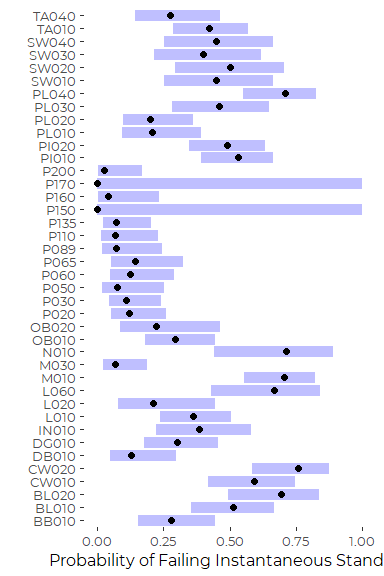
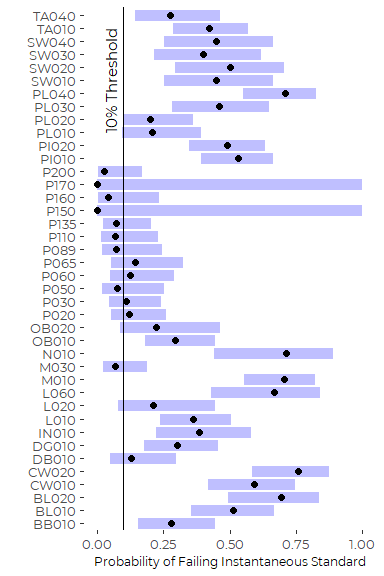
Minor revision to graphic

diff --git a/Analysis/E.coli_Analysis.md b/Analysis/E.coli_Analysis.md
@@ -788,11 +788,18 @@ glm_emm <- emmeans(thglm, 'Site', type = 'response')
 glm_fit <- summary(glm_emm)
 ```
 
+The State instantaneous water quality criteria formally apply over a 90
+day period, and observations are allowed to exceed the instantaneous
+standard no more than 10% of the time.
+
 ``` r
 plot(glm_fit) +
   theme_cbep(base_size = 12) +
   ylab('') +
-  xlab('Probability of Failing Instantaneous Standard')
+  xlab('Probability of Failing Instantaneous Standard') +
+  theme(axis.title.x = element_text(size = 9)) +
+  geom_vline(xintercept = 0.1) +
+  annotate('text', x = 0.05, y = 35, label = '10% Threshold', angle = 90)
 ```
 
 <img src="E.coli_Analysis_files/figure-gfm/unnamed-chunk-37-1.png" style="display: block; margin: auto;" />
